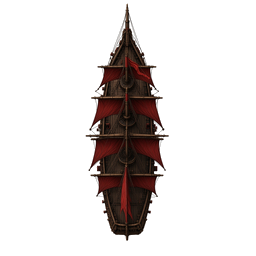
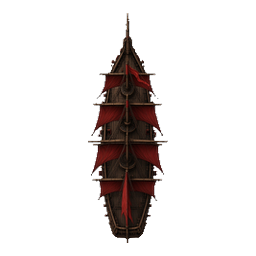
Fix ship token checkerboard transparency

Changed region(s): [[0.3438, 0.0, 0.6562, 0.9375]]

diff --git a/assets/index-y9lerIzz.js b/assets/index-y9lerIzz.js
@@ -1,4 +1,4 @@
-const __vite__mapDeps=(i,m=__vite__mapDeps,d=(m.f||(m.f=["assets/CorsairGame-D6ftGelu.js","assets/rolldown-runtime-Cyuzqnbw.js","assets/supabase-BXtpc1SX.js","assets/wallet-D0U5_iuP.js","assets/motion-wKhEcHeU.js","assets/anchor-DTwjXLM2.js","assets/walletApi-DYniPf4L.js","assets/AdminPanel-CLLDtgvE.js","assets/cartridge-x3He-95Y.js","assets/cartridge-CyqXvNdM.js","assets/LiveWalletBridge-W8MLdVd8.js"])))=>i.map(i=>d[i]);
+const __vite__mapDeps=(i,m=__vite__mapDeps,d=(m.f||(m.f=["assets/CorsairGame-BYP4Bkeh.js","assets/rolldown-runtime-Cyuzqnbw.js","assets/supabase-BXtpc1SX.js","assets/wallet-D0U5_iuP.js","assets/motion-wKhEcHeU.js","assets/anchor-DTwjXLM2.js","assets/walletApi-DYniPf4L.js","assets/AdminPanel-CLLDtgvE.js","assets/cartridge-x3He-95Y.js","assets/cartridge-CyqXvNdM.js","assets/LiveWalletBridge-W8MLdVd8.js"])))=>i.map(i=>d[i]);
 import { a as e, t } from "./rolldown-runtime-Cyuzqnbw.js";
 import { i as n, n as r, r as i, t as a } from "./motion-wKhEcHeU.js";
 import { n as o, t as s } from "./walletApi-DYniPf4L.js";
@@ -12808,7 +12808,7 @@ Error generating stack: ` + e.message + `
         } else e === 60 ? r = h(r, 8, 25) : e === 61 ? r = h(r, r.ship.maxHull, 55) : e === 70 && (r = v(r));
         return r;
     }
-    var lt = (0, O.lazy)(()=>E(()=>import(`./CorsairGame-D6ftGelu.js`).then(async (m)=>{
+    var lt = (0, O.lazy)(()=>E(()=>import(`./CorsairGame-BYP4Bkeh.js`).then(async (m)=>{
                 await m.__tla;
                 return m;
             }), __vite__mapDeps([0,1,2,3,4,5,6]))), ut = (0, O.lazy)(()=>E(()=>import(`./AdminPanel-CLLDtgvE.js`).then(async (m)=>{

diff --git a/index.html b/index.html
@@ -18,7 +18,7 @@
     <link rel="preconnect" href="https://fonts.googleapis.com" />
     <link rel="preconnect" href="https://fonts.gstatic.com" crossorigin />
     <link href="https://fonts.googleapis.com/css2?family=Cinzel:wght@400;700&family=IM+Fell+English:ital@0;1&family=Pirata+One&display=swap" rel="stylesheet" />
-    <script type="module" crossorigin src="/assets/index-DHpiyhs8.js"></script>
+    <script type="module" crossorigin src="/assets/index-y9lerIzz.js"></script>
     <link rel="modulepreload" crossorigin href="/assets/rolldown-runtime-Cyuzqnbw.js">
     <link rel="modulepreload" crossorigin href="/assets/supabase-BXtpc1SX.js">
     <link rel="modulepreload" crossorigin href="/assets/motion-wKhEcHeU.js">

diff --git a/assets/CorsairGame-BYP4Bkeh.js b/assets/CorsairGame-BYP4Bkeh.js
@@ -2351,7 +2351,7 @@ let __tla = Promise.all([
         });
     }
     function lt({ shipId: e, size: t, lurchX: n = 0, lurchY: r = 0 }) {
-        let a = e === `specter`, [o, s] = (0, T.useState)(!0), c = `${x(e)}?v=3`;
+        let a = e === `specter`, [o, s] = (0, T.useState)(!0), c = `${x(e)}?v=4`;
         return (0, O.jsx)(i.div, {
             animate: {
                 rotate: n * 8,
